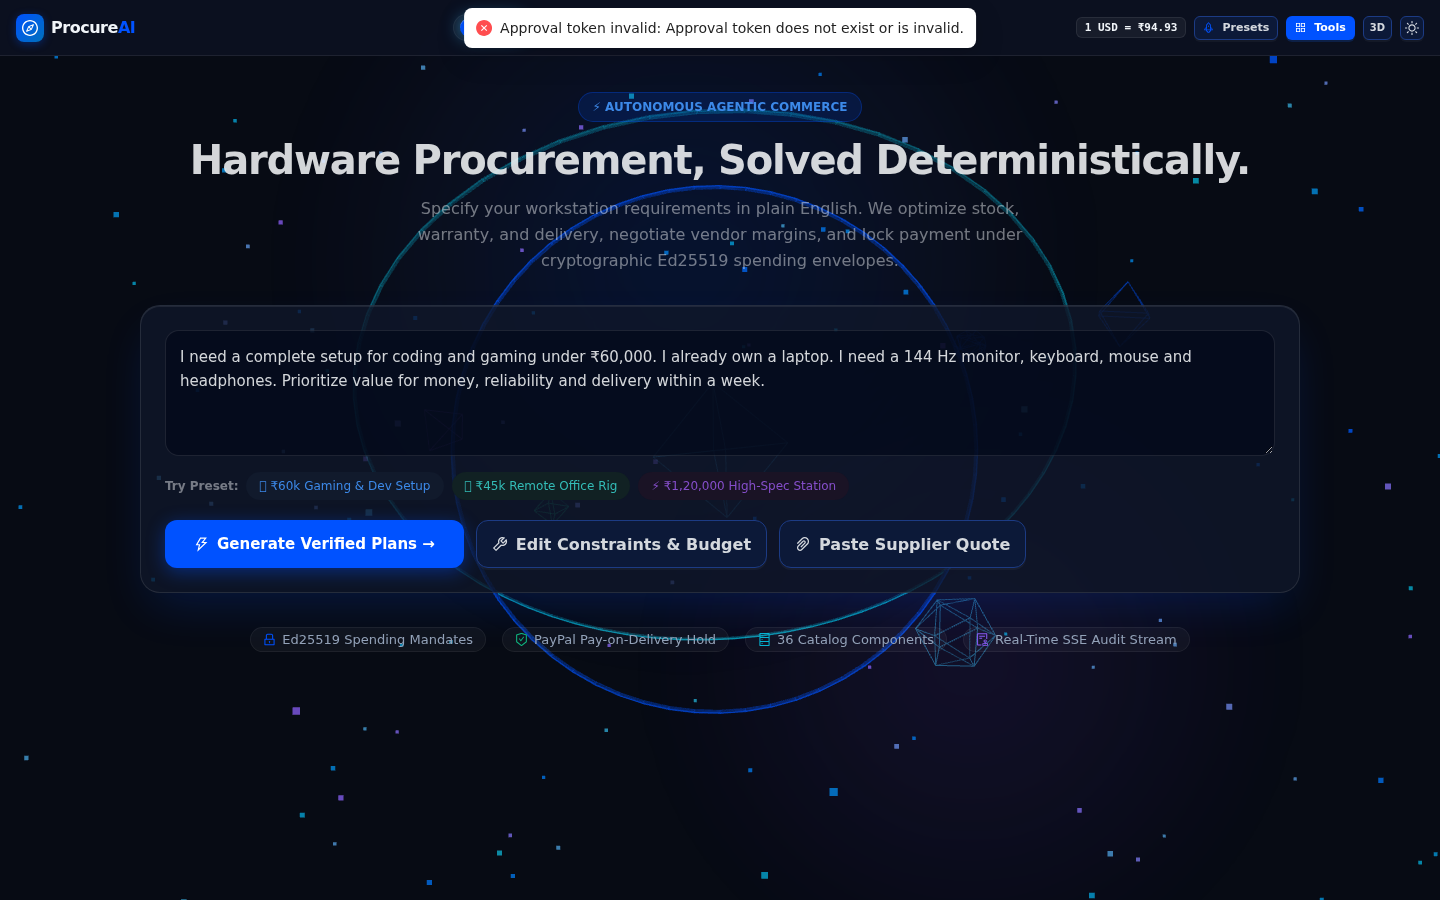
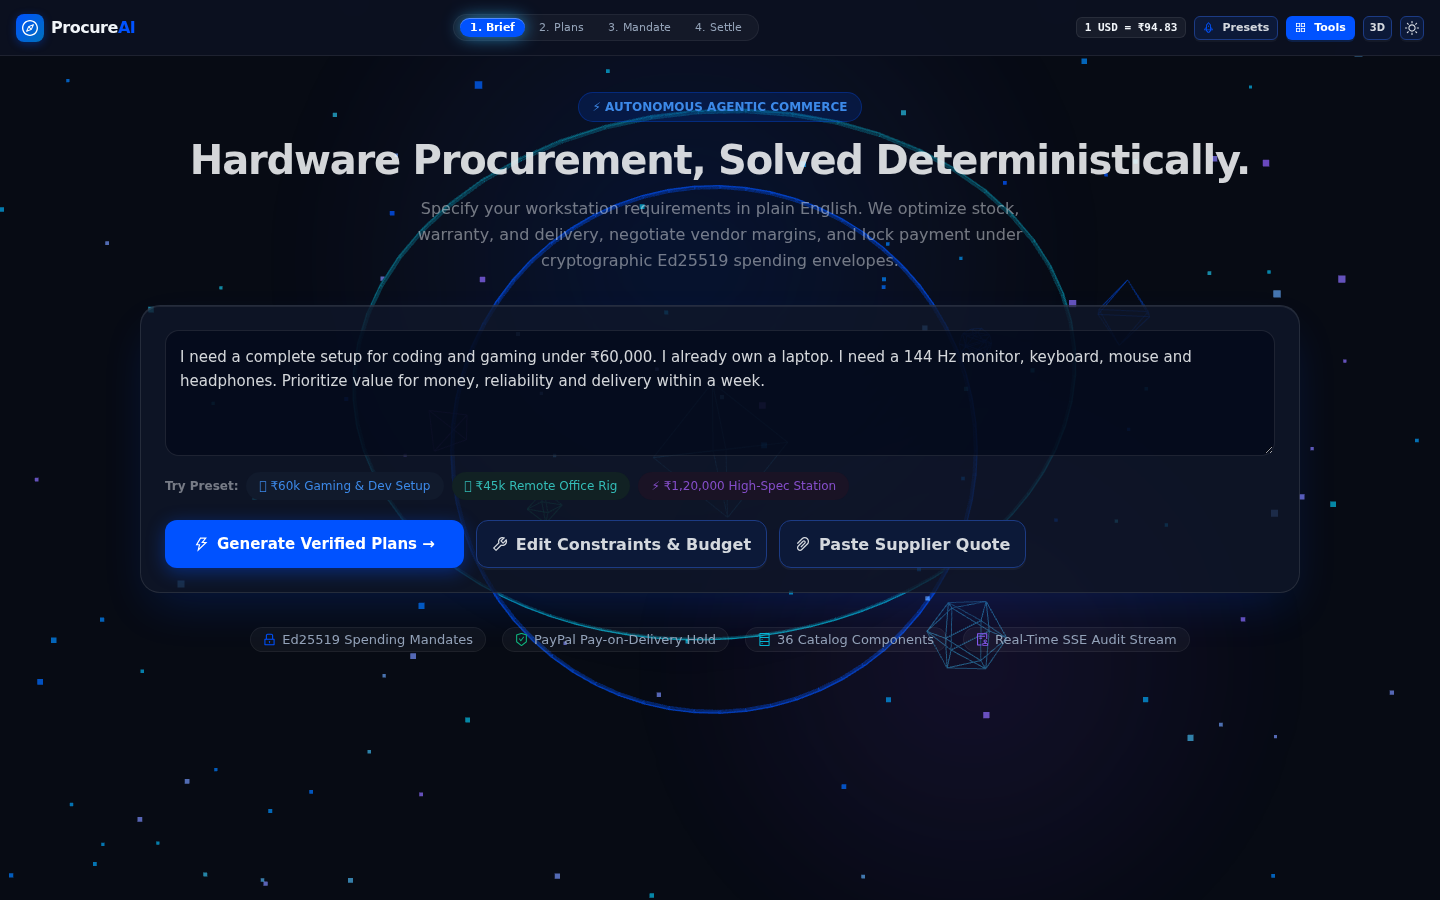
fix(paypal): resolve PayPal sandbox return redirect, token disambiguation, and auto-authorization

Changed region(s): [[0.3125, 0.0, 0.6875, 0.0622], [0.625, 0.6533, 0.7188, 0.7467], [0.3438, 0.6533, 0.375, 0.6844]]

diff --git a/client/src/App.jsx b/client/src/App.jsx
@@ -963,13 +963,76 @@ export default function App() {
       .catch((err) => console.warn("Live FX fallback:", err));
   }, []);
 
-  // Single-use token parameter check (?token=...)
+  // Single-use token and PayPal return check
   useEffect(() => {
     try {
       const params = new URLSearchParams(window.location.search);
-      const token = params.get("token");
-      if (token) {
-        validateApprovalTokenApi(token)
+      const paypalToken = params.get("token");
+      const payerId = params.get("PayerID");
+      const isPayPalReturn = params.get("paypal_return") === "true" || Boolean(paypalToken && payerId);
+
+      // 1. Returning from PayPal Sandbox buyer checkout (e.g. after clicking "Continue to Review Order" / "Pay Now")
+      if (isPayPalReturn) {
+        const orderID = params.get("order_id") || paypalToken;
+        let savedPlan = null;
+        let savedMandate = null;
+        try {
+          const pStr = sessionStorage.getItem("procureai_locked_plan");
+          if (pStr) savedPlan = JSON.parse(pStr);
+          const mStr = sessionStorage.getItem("procureai_mandate");
+          if (mStr) savedMandate = JSON.parse(mStr);
+        } catch (_) {}
+
+        if (savedPlan) setLockedPlan(savedPlan);
+        if (savedMandate) setActiveMandate(savedMandate);
+
+        setCurrentStep(2);
+        message.loading({ content: "Finalizing PayPal Pay-on-Delivery Authorization Hold...", key: "paypal_auth", duration: 10 });
+
+        authorizeOrder({
+          orderID,
+          planId: params.get("plan_id") || savedPlan?.planId || "plan_demo_1",
+          version: Number(params.get("version")) || savedPlan?.version || 1,
+          mandateId: params.get("mandate_id") || savedMandate?.mandateId,
+        })
+          .then((authRes) => {
+            const receiptData = {
+              orderID,
+              authorizationID: authRes.authorizationID,
+              status: "AUTHORIZED",
+              capturedUSD: authRes.authorizedUSD || authRes.amount?.value || (savedPlan?.lockedTotalUSD || "374.25"),
+              capturedINR: savedPlan?.lockedTotalINR || 35492,
+              authorizationExpiresAt: authRes.authorizationExpiresAt || authRes.expirationTime,
+              timestamp: new Date().toLocaleTimeString(),
+            };
+            setReceipt(receiptData);
+            try {
+              sessionStorage.setItem("procureai_receipt", JSON.stringify(receiptData));
+            } catch (_) {}
+            confetti({ particleCount: 70, spread: 70, origin: { y: 0.6 } });
+            message.success({ content: "Hold successfully placed on PayPal Sandbox!", key: "paypal_auth", duration: 5 });
+            setCurrentStep(3); // Jump straight to Settle & Escrow Release!
+            window.history.replaceState({}, document.title, window.location.pathname);
+          })
+          .catch((err) => {
+            console.error("PayPal return authorization error:", err);
+            message.error({ content: `PayPal authorization failed: ${err.message}`, key: "paypal_auth", duration: 6 });
+          });
+
+        return;
+      }
+
+      if (params.get("paypal_cancel") === "true") {
+        message.info("PayPal checkout was cancelled. You can retry authorization anytime.");
+        setCurrentStep(2);
+        window.history.replaceState({}, document.title, window.location.pathname);
+        return;
+      }
+
+      // 2. Single-use CFO approval token check (?token=approval_token_... or ?approval_token=...)
+      const approvalToken = params.get("approval_token") || (paypalToken && !payerId && String(paypalToken).startsWith("approval_") ? paypalToken : null);
+      if (approvalToken) {
+        validateApprovalTokenApi(approvalToken)
           .then((res) => {
             setActiveApprovalToken(res.tokenRecord);
             if (res.mandate) {
@@ -1161,7 +1224,7 @@ export default function App() {
         throw new Error(lockedRecord.error || "Could not lock plan on server");
       }
 
-      setLockedPlan({
+      const planToSave = {
         planId: lockedRecord.planId || planData.planId,
         version: lockedRecord.version || 1,
         status: lockedRecord.status || "APPROVED",
@@ -1170,7 +1233,11 @@ export default function App() {
         lockedTotalINR: lockedRecord.lockedTotalINR ?? chosen.totalINR,
         lockedTotalUSD: lockedRecord.lockedTotalUSD ?? computedUSD,
         strategy: chosen,
-      });
+      };
+      setLockedPlan(planToSave);
+      try {
+        sessionStorage.setItem("procureai_locked_plan", JSON.stringify(planToSave));
+      } catch (_) {}
 
       // Generate Ed25519 Cryptographic Spending Mandate
       try {
@@ -1183,6 +1250,9 @@ export default function App() {
           items: chosen.items,
         });
         setActiveMandate(mandateRes);
+        try {
+          sessionStorage.setItem("procureai_mandate", JSON.stringify(mandateRes));
+        } catch (_) {}
         logTelemetry("POST /api/mandates", `Created Ed25519 Mandate ${mandateRes.mandateId}`, "MANDATE_BOUND", 45, mandateRes);
       } catch (mErr) {
         console.warn("Mandate creation fallback:", mErr);
@@ -2405,27 +2475,40 @@ export default function App() {
                               });
                               setPendingRealOrderId(res.orderID);
                               setPendingApprovalUrl(res.approvalUrl);
+                              try {
+                                sessionStorage.setItem("procureai_pending_order_id", res.orderID);
+                              } catch (_) {}
                               return res.orderID;
                             }}
                             onApprove={async (data) => {
-                              const authRes = await authorizeOrder({
-                                orderID: data.orderID,
-                                planId: lockedPlan?.planId || "plan_demo_1",
-                                version: lockedPlan?.version || 1,
-                                mandateId: activeMandate?.mandateId,
-                              });
-                              setReceipt({
-                                orderID: data.orderID,
-                                authorizationID: authRes.authorizationID,
-                                status: "AUTHORIZED",
-                                capturedUSD: authRes.authorizedUSD || authRes.amount?.value,
-                                capturedINR: lockedPlan?.lockedTotalINR,
-                                authorizationExpiresAt: authRes.authorizationExpiresAt || authRes.expirationTime,
-                                timestamp: new Date().toLocaleTimeString(),
-                              });
-                              confetti({ particleCount: 60, spread: 60, origin: { y: 0.6 } });
-                              message.success("Hold successfully placed on PayPal Sandbox!");
-                              setCurrentStep(3);
+                              try {
+                                message.loading({ content: "Placing PayPal Sandbox Authorization Hold...", key: "paypal_auth", duration: 8 });
+                                const authRes = await authorizeOrder({
+                                  orderID: data.orderID,
+                                  planId: lockedPlan?.planId || "plan_demo_1",
+                                  version: lockedPlan?.version || 1,
+                                  mandateId: activeMandate?.mandateId,
+                                });
+                                const receiptData = {
+                                  orderID: data.orderID,
+                                  authorizationID: authRes.authorizationID,
+                                  status: "AUTHORIZED",
+                                  capturedUSD: authRes.authorizedUSD || authRes.amount?.value || toUSD(lockedPlan?.lockedTotalINR || 35492),
+                                  capturedINR: lockedPlan?.lockedTotalINR || 35492,
+                                  authorizationExpiresAt: authRes.authorizationExpiresAt || authRes.expirationTime,
+                                  timestamp: new Date().toLocaleTimeString(),
+                                };
+                                setReceipt(receiptData);
+                                try {
+                                  sessionStorage.setItem("procureai_receipt", JSON.stringify(receiptData));
+                                } catch (_) {}
+                                confetti({ particleCount: 60, spread: 60, origin: { y: 0.6 } });
+                                message.success({ content: "Hold successfully placed on PayPal Sandbox!", key: "paypal_auth" });
+                                setCurrentStep(3);
+                              } catch (err) {
+                                console.error("PayPal onApprove authorize error:", err);
+                                message.error({ content: `Failed to place PayPal hold: ${err.message}`, key: "paypal_auth" });
+                              }
                             }}
                             onError={(err) => {
                               console.warn("PayPal Buttons error:", err);
@@ -2448,6 +2531,9 @@ export default function App() {
                               if (res.approvalUrl) {
                                 window.open(res.approvalUrl, "_blank");
                                 setPendingRealOrderId(res.orderID);
+                                try {
+                                  sessionStorage.setItem("procureai_pending_order_id", res.orderID);
+                                } catch (_) {}
                                 message.info("Opened PayPal Sandbox in new tab. Approve with buyer account, then click 'Confirm Approved Hold' below.");
                               }
                             } catch (e) {

diff --git a/server.js b/server.js
@@ -306,7 +306,7 @@ app.post("/api/paypal/create-order", async (req, res) => {
           status: "APPROVED",
           approvedStrategyKey: "BEST_VALUE",
           lockedTotalINR: lockedTotalINR || 35492,
-          lockedTotalUSD: lockedTotalUSD || "422.35",
+          lockedTotalUSD: lockedTotalUSD || "374.25",
           strategies: { BEST_VALUE: strategyData },
         };
         plansStore.set(planId, plan);
@@ -415,6 +415,10 @@ app.post("/api/paypal/create-order", async (req, res) => {
     }
 
     const effectiveIntent = intent || "AUTHORIZE";
+    const clientOrigin = req.headers.origin || (req.headers.referer ? new URL(req.headers.referer).origin : "http://localhost:3000");
+    const returnUrl = `${clientOrigin}/?paypal_return=true&plan_id=${encodeURIComponent(plan.planId)}&version=${plan.version}&mandate_id=${encodeURIComponent(mandateId || "")}`;
+    const cancelUrl = `${clientOrigin}/?paypal_cancel=true`;
+
     const response = await fetch(`${PAYPAL_BASE_URL}/v2/checkout/orders`, {
       method: "POST",
       headers: {
@@ -425,6 +429,14 @@ app.post("/api/paypal/create-order", async (req, res) => {
       body: JSON.stringify({
         intent: effectiveIntent, // "AUTHORIZE" holds funds under pay-on-delivery authorization hold until delivery
         purchase_units: [purchaseUnit],
+        application_context: {
+          brand_name: "ProcureAI Autonomous Commerce",
+          landing_page: "LOGIN",
+          shipping_preference: "NO_SHIPPING",
+          user_action: "PAY_NOW",
+          return_url: returnUrl,
+          cancel_url: cancelUrl,
+        },
       }),
     });
 
@@ -511,19 +523,48 @@ app.post("/api/paypal/authorize-order", async (req, res) => {
 
   // Cryptographic Spending Mandate Enforcement
   if (mandateId) {
-    const plan = planId ? plansStore.get(planId) : null;
-    const enforcement = enforceMandate({
+    let plan = planId ? plansStore.get(planId) : null;
+    if (!plan) {
+      const existingOrder = getOrder(orderID);
+      if (existingOrder) {
+        plan = {
+          planId: existingOrder.plan_id || "plan_demo_1",
+          version: version || 1,
+          lockedTotalINR: existingOrder.total_inr || 35492,
+          lockedTotalUSD: existingOrder.total_usd || "374.25",
+        };
+      } else if (planId === "plan_demo_1") {
+        plan = {
+          planId: "plan_demo_1",
+          version: 1,
+          lockedTotalINR: 35492,
+          lockedTotalUSD: "374.25",
+        };
+      }
+    }
+    let enforcement = enforceMandate({
       mandateId,
       planVersion: version !== undefined ? version : plan?.version,
       totalINR: plan?.lockedTotalINR,
       totalUSD: plan?.lockedTotalUSD,
     });
     if (!enforcement.allowed) {
-      return res.status(422).json({
-        error: "MANDATE_ENFORCEMENT_FAILED",
-        code: enforcement.code,
-        message: enforcement.message,
-      });
+      if (enforcement.code === "MANDATE_NOT_FOUND") {
+        createSignedMandate({
+          mandateId,
+          planId: plan?.planId || "plan_demo_1",
+          planVersion: version || plan?.version || 1,
+          maxTotalINR: plan?.lockedTotalINR || 35492,
+          maxTotalUSD: plan?.lockedTotalUSD || "374.25",
+        });
+        enforcement = { allowed: true };
+      } else {
+        return res.status(422).json({
+          error: "MANDATE_ENFORCEMENT_FAILED",
+          code: enforcement.code,
+          message: enforcement.message,
+        });
+      }
     }
   }
 

diff --git a/test/paypalHardening.test.js b/test/paypalHardening.test.js
@@ -220,3 +220,48 @@ test("Phase 1.8.6: Reauthorization edge case handling for authorizations near 29
   const needsReauthorization = daysActive >= 25 && daysActive <= 29;
   assert.equal(needsReauthorization, true);
 });
+
+test("Phase 1.8.7: Disambiguate PayPal return token vs CFO approval token (prevents returning PayPal buyer redirect from failing approval token validation)", () => {
+  // 1. Simulate PayPal checkout return URL parameters
+  const paypalUrl = "http://localhost:3000/?token=504443905P2469904&PayerID=9BMFZ45XJ5X6U";
+  const urlObj = new URL(paypalUrl);
+  const paypalToken = urlObj.searchParams.get("token");
+  const payerId = urlObj.searchParams.get("PayerID");
+
+  const isPayPalReturn = Boolean(urlObj.searchParams.get("paypal_return") === "true" || (paypalToken && payerId));
+  const isCfoToken = Boolean(paypalToken && !payerId && String(paypalToken).startsWith("approval_"));
+
+  assert.equal(isPayPalReturn, true, "Must correctly identify PayPal buyer approval return");
+  assert.equal(isCfoToken, false, "Must NOT treat PayPal order token as a CFO executive approval token");
+
+  // 2. Simulate CFO approval link URL parameters
+  const cfoUrl = "http://localhost:3000/?token=approval_token_1793712109283_a82f";
+  const cfoUrlObj = new URL(cfoUrl);
+  const cfoTok = cfoUrlObj.searchParams.get("token");
+  const cfoPayerId = cfoUrlObj.searchParams.get("PayerID");
+
+  const cfoIsPayPalReturn = Boolean(cfoUrlObj.searchParams.get("paypal_return") === "true" || (cfoTok && cfoPayerId));
+  const cfoIsApproval = Boolean(cfoTok && !cfoPayerId && String(cfoTok).startsWith("approval_"));
+
+  assert.equal(cfoIsPayPalReturn, false, "CFO link must not be flagged as PayPal return");
+  assert.equal(cfoIsApproval, true, "CFO token must be correctly flagged as executive approval token");
+
+  // 3. Verify SQLite order creation & authorization cycle for returned PayPal token
+  const testOrderId = "504443905P2469904";
+  createOrderRecord({
+    orderId: testOrderId,
+    planId: "plan_demo_1",
+    intent: "AUTHORIZE",
+    totalINR: 35492,
+    totalUSD: "374.25",
+  });
+
+  const authorized = updateOrderStatus(testOrderId, "AUTHORIZED", {
+    authorizationId: "AUTH_RETURN_TEST_789",
+    authorizationExpiresAt: new Date(Date.now() + 29 * 24 * 3600 * 1000).toISOString(),
+  });
+
+  assert.equal(authorized.status, "AUTHORIZED");
+  assert.equal(authorized.authorization_id, "AUTH_RETURN_TEST_789");
+  assert.equal(authorized.total_usd, "374.25");
+});

diff --git a/client/src/components/HeaderNav.jsx b/client/src/components/HeaderNav.jsx
@@ -136,13 +136,13 @@ export default function HeaderNav({
                 background: isActive
                   ? "#0052FF"
                   : isDone
-                  ? isDarkMode ? "rgba(255, 255, 255, 0.08)" : "rgba(0, 0, 0, 0.06)"
-                  : "transparent",
+                    ? isDarkMode ? "rgba(255, 255, 255, 0.08)" : "rgba(0, 0, 0, 0.06)"
+                    : "transparent",
                 color: isActive
                   ? "#ffffff"
                   : isDone
-                  ? isDarkMode ? "#e2e8f0" : "#1e293b"
-                  : "#94a3b8",
+                    ? isDarkMode ? "#e2e8f0" : "#1e293b"
+                    : "#94a3b8",
                 padding: "3px 10px",
                 borderRadius: 100,
                 fontSize: 11,
